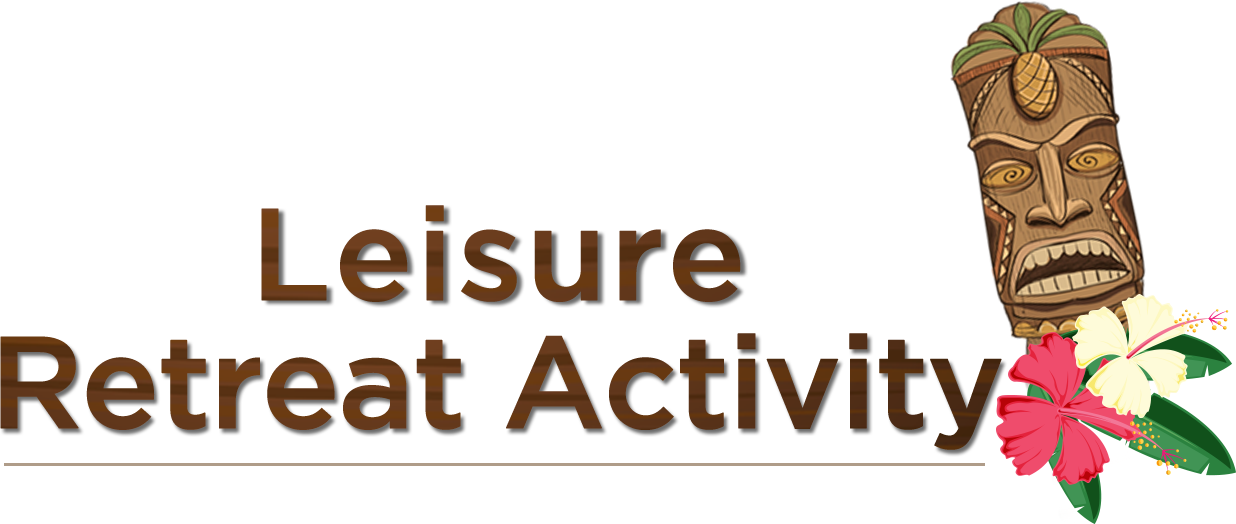
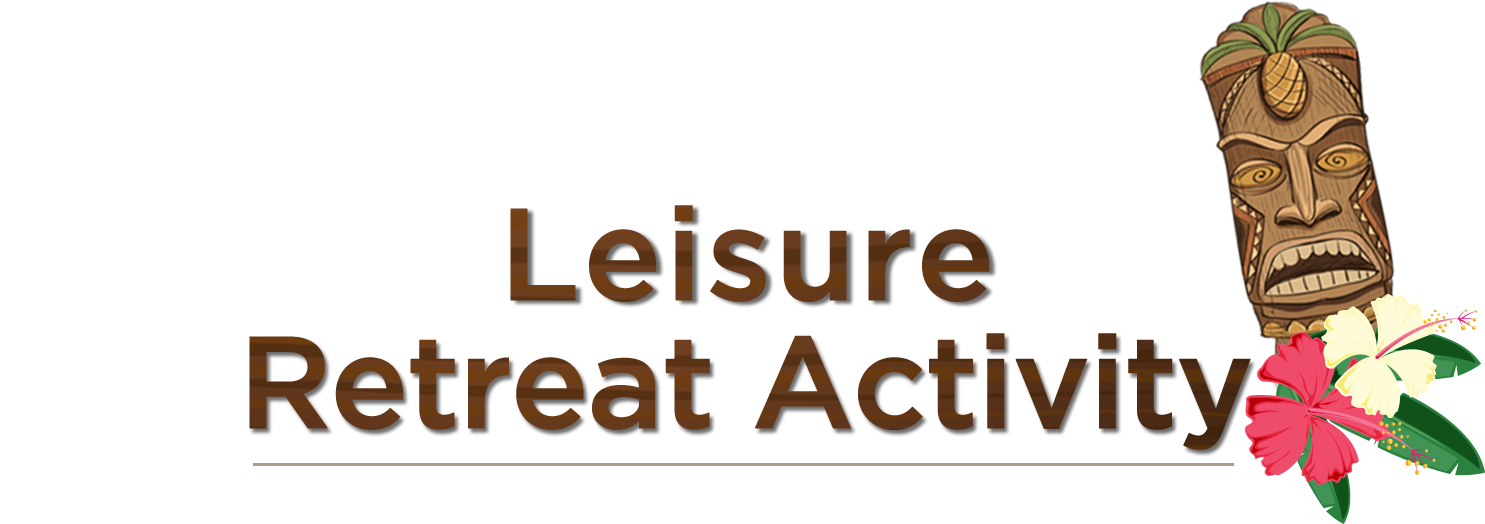
edit activity

Changed region(s): [[0.0, 0.0, 1.0, 1.0], [0.1845, 0.3664, 0.6764, 0.6107], [0.0, 0.8855, 0.1537, 0.916]]

diff --git a/activities.html b/activities.html
@@ -41,7 +41,7 @@
     <link href="./css/css.css" rel="stylesheet" />
   </head>
 
-  <body>
+  <body class="main-body-option2">
     <nav class="navbar fixed-top navbar-expand-lg navbar-dark scrolling-navbar">
       <div class="container">
         <a class="navbar-brand" href="home.html">
@@ -143,15 +143,15 @@
         <!--Section: Cards-->
         <section class="pt-4">
           <!-- Heading & Description -->
-          <div class="wow fadeIn">
+          <div class="text-center wow fadeIn">
             <!--Section heading-->
-            <h2 class="h1 text-center mb-5">LEISURE & RETREAT ACTIVITY</h2>
+            <img src="./images/title_lra.png" class="img-fluid title-lra-img">
             <!--Section description-->
             <p class="text-center">
-              ATTENDEE CAN ONLY SELECT ONE PROGRAMD ACTIVITY
+              Attendees can only select <span class="red-text">ONE</span> activity program
             </p>
             <p class="text-center mb-5 pb-5">
-              AND NEED TO CONFIRM IN PRE-EVENT WEBSITE FOR RESERVATION
+              Please confirm in the event website for reservation
             </p>
           </div>
           <!-- Heading & Description -->
@@ -161,7 +161,7 @@
             <!--Grid column-->
             <div class="col-lg-5 col-xl-4 mb-4">
               <!--Featured image-->
-              <div class="view overlay rounded z-depth-1">
+              <div class="view overlay rounded z-depth-0">
                 <img src="./images/step4_card1.png" class="img-fluid" alt="" />
                 <a href="activities_detail.html">
                   <div class="mask rgba-white-slight"></div>
@@ -176,8 +176,7 @@
                 <strong>ZIPLINE ACTIVITY</strong>
               </h3>
               <p class="grey-text">
-                ACTIVITIES ARE NOT RECOMMENDED FOR ANYONE WHOMAY HAVE A HEART
-                CONDITION,NECK BACK ISSUES, PR....
+                Face your fear of heights by going on a zipline from tree to tree and also walking across a sky bridge
               </p>
               <div class="progress">
                 <div
@@ -192,7 +191,7 @@
               <p class="text-progress">XX AVAILABLE</p>
               <a
                 href="activities_detail.html"
-                class="btn btn-primary btn-md float-right"
+                class="btn btn-wood btn-md float-right"
                 >See more detail <i class="fas fa-play ml-2"></i>
               </a>
             </div>
@@ -207,7 +206,7 @@
             <!--Grid column-->
             <div class="col-lg-5 col-xl-4 mb-4">
               <!--Featured image-->
-              <div class="view overlay rounded z-depth-1">
+              <div class="view overlay rounded z-depth-0">
                 <img src="./images/step4_card2.png" class="img-fluid" alt="" />
                 <a href="activities_detail.html">
                   <div class="mask rgba-white-slight"></div>
@@ -222,8 +221,7 @@
                 <strong>PHI PHI ISLAND AND SNORKELING </strong>
               </h3>
               <p class="grey-text">
-                ACTIVITIES ARE NOT RECOMMENDED FOR ANYONE WHOMAY HAVE A HEART
-                CONDITION,NECK BACK ISSUES, PR....
+                Go snorkeling with fishes in the beautiful ocean and have a relaxing time by beach
               </p>
               <div class="progress">
                 <div
@@ -240,7 +238,7 @@
               </p>
               <a
                 href="activities_detail.html"
-                class="btn btn-primary btn-md float-right"
+                class="btn btn-wood btn-md float-right"
                 >See more detail <i class="fas fa-play ml-2"></i>
               </a>
             </div>
@@ -255,7 +253,7 @@
             <!--Grid column-->
             <div class="col-lg-5 col-xl-4 mb-4">
               <!--Featured image-->
-              <div class="view overlay rounded z-depth-1">
+              <div class="view overlay rounded z-depth-0">
                 <img src="./images/step4_card3.png" class="img-fluid" alt="" />
                 <a href="activities_detail.html">
                   <div class="mask rgba-white-slight"></div>
@@ -270,8 +268,7 @@
                 <strong>THAI MASSAGE AND SPA</strong>
               </h3>
               <p class="grey-text">
-                ACTIVITIES ARE NOT RECOMMENDED FOR ANYONE WHOMAY HAVE A HEART
-                CONDITION,NECK BACK ISSUES, PR....
+                Have a nice relaxing 2-hour long Thai massage to calm your body and a nice walk around Phuket Old town after that
               </p>
               <div class="progress">
                 <div
@@ -286,7 +283,7 @@
               <p class="text-progress">XX AVAILABLE</p>
               <a
                 href="activities_detail.html"
-                class="btn btn-primary btn-md float-right"
+                class="btn btn-wood btn-md float-right"
                 >See more detail <i class="fas fa-play ml-2"></i>
               </a>
             </div>
@@ -300,7 +297,7 @@
             <!--Grid column-->
             <div class="col-lg-5 col-xl-4 mb-4">
               <!--Featured image-->
-              <div class="view overlay rounded z-depth-1">
+              <div class="view overlay rounded z-depth-0">
                 <img src="./images/step4_card4.png" class="img-fluid" alt="" />
                 <a href="activities_detail.html">
                   <div class="mask rgba-white-slight"></div>
@@ -315,8 +312,7 @@
                 <strong>SIDESEEING & SHOPPING CITY TOUR </strong>
               </h3>
               <p class="grey-text">
-                ACTIVITIES ARE NOT RECOMMENDED FOR ANYONE WHOMAY HAVE A HEART
-                CONDITION,NECK BACK ISSUES, PR....
+                Explore Phuket Old Town and the beauty temples around it
               </p>
               <div class="progress">
                 <div
@@ -331,7 +327,7 @@
               <p class="text-progress">XX AVAILABLE</p>
               <a
                 href="activities_detail.html"
-                class="btn btn-primary btn-md float-right"
+                class="btn btn-wood btn-md float-right"
                 >See more detail <i class="fas fa-play ml-2"></i>
               </a>
             </div>
@@ -346,7 +342,7 @@
             <!--Grid column-->
             <div class="col-lg-5 col-xl-4 mb-4">
               <!--Featured image-->
-              <div class="view overlay rounded z-depth-1">
+              <div class="view overlay rounded z-depth-0">
                 <img src="./images/step4_card5.png" class="img-fluid" alt="" />
                 <a href="activities_detail.html">
                   <div class="mask rgba-white-slight"></div>
@@ -361,8 +357,7 @@
                 <strong>WAKE BOARD </strong>
               </h3>
               <p class="grey-text">
-                ACTIVITIES ARE NOT RECOMMENDED FOR ANYONE WHOMAY HAVE A HEART
-                CONDITION,NECK BACK ISSUES, PR....
+                Feel the force of the water and the wind in your hair as you surf on a wakeboard
               </p>
               <div class="progress">
                 <div
@@ -377,7 +372,7 @@
               <p class="text-progress">XX AVAILABLE</p>
               <a
                 href="activities_detail.html"
-                class="btn btn-primary btn-md float-right"
+                class="btn btn-wood btn-md float-right"
                 >See more detail <i class="fas fa-play ml-2"></i>
               </a>
             </div>
@@ -392,7 +387,7 @@
             <!--Grid column-->
             <div class="col-lg-5 col-xl-4 mb-4">
               <!--Featured image-->
-              <div class="view overlay rounded z-depth-1">
+              <div class="view overlay rounded z-depth-0">
                 <img src="./images/step4_card6.png" class="img-fluid" alt="" />
                 <a href="activities_detail.html">
                   <div class="mask rgba-white-slight"></div>
@@ -407,8 +402,7 @@
                 <strong>RAFTING ACTIVITY </strong>
               </h3>
               <p class="grey-text">
-                ACTIVITIES ARE NOT RECOMMENDED FOR ANYONE WHOMAY HAVE A HEART
-                CONDITION,NECK BACK ISSUES, PR....
+                Paddle your way down a gushing river with your friends and experience the adrenaline rush
               </p>
               <div class="progress">
                 <div
@@ -423,7 +417,7 @@
               <p class="text-progress">XX AVAILABLE</p>
               <a
                 href="activities_detail.html"
-                class="btn btn-primary btn-md float-right"
+                class="btn btn-wood btn-md float-right"
                 >See more detail <i class="fas fa-play ml-2"></i>
               </a>
             </div>
@@ -438,8 +432,8 @@
             <!--Grid column-->
             <div class="col-lg-5 col-xl-4 mb-4">
               <!--Featured image-->
-              <div class="view overlay rounded z-depth-1">
-                <img src="./images/step4_card8.png" class="img-fluid" alt="" />
+              <div class="view overlay rounded z-depth-0">
+                <img src="./images/step4_card7.png" class="img-fluid" alt="" />
                 <a href="activities_detail.html">
                   <div class="mask rgba-white-slight"></div>
                 </a>
@@ -453,8 +447,7 @@
                 <strong>HYPE CRUISE </strong>
               </h3>
               <p class="grey-text">
-                ACTIVITIES ARE NOT RECOMMENDED FOR ANYONE WHOMAY HAVE A HEART
-                CONDITION,NECK BACK ISSUES, PR....
+                Party and relax on the luxury yacht that sails along the shores of the beach
               </p>
               <div class="progress">
                 <div
@@ -469,7 +462,52 @@
               <p class="text-progress">XX AVAILABLE</p>
               <a
                 href="activities_detail.html"
-                class="btn btn-primary btn-md float-right"
+                class="btn btn-wood btn-md float-right"
+                >See more detail <i class="fas fa-play ml-2"></i>
+              </a>
+            </div>
+            <!--Grid column-->
+          </div>
+          <!--Grid row-->
+
+          <hr class="mb-5" />
+
+          <!--Grid row-->
+          <div class="row mt-3 wow fadeIn">
+            <!--Grid column-->
+            <div class="col-lg-5 col-xl-4 mb-4">
+              <!--Featured image-->
+              <div class="view overlay rounded z-depth-0">
+                <img src="./images/step4_card8.png" class="img-fluid" alt="" />
+                <a href="activities_detail.html">
+                  <div class="mask rgba-white-slight"></div>
+                </a>
+              </div>
+            </div>
+            <!--Grid column-->
+
+            <!--Grid column-->
+            <div class="col-lg-7 col-xl-7 ml-xl-4 mb-4">
+              <h3 class="mb-3 font-weight-bold dark-grey-text">
+                <strong>FLOW HOUSE & JET SKI</strong>
+              </h3>
+              <p class="grey-text">
+                Surf up in the Flow House and ride alongside the ocean waves on a jet ski
+              </p>
+              <div class="progress">
+                <div
+                  class="progress-bar"
+                  role="progressbar"
+                  style="width: 50%"
+                  aria-valuenow="50"
+                  aria-valuemin="0"
+                  aria-valuemax="100"
+                ></div>
+              </div>
+              <p class="text-progress">XX AVAILABLE</p>
+              <a
+                href="activities_detail.html"
+                class="btn btn-wood btn-md float-right"
                 >See more detail <i class="fas fa-play ml-2"></i>
               </a>
             </div>
@@ -528,7 +566,7 @@
     ></script>
     <script type="text/javascript">
       $(document).ready(function() {
-        Swal.fire("No Activity Select", "", "warning");
+        Swal.fire("No activity selected", "", "warning");
       });
     </script>
   </body>

diff --git a/activities_detail.html b/activities_detail.html
@@ -41,7 +41,7 @@
     <link href="./css/css.css" rel="stylesheet" />
   </head>
 
-  <body>
+  <body class="main-body-option2">
     <nav class="navbar fixed-top navbar-expand-lg navbar-dark scrolling-navbar">
       <div class="container">
         <a class="navbar-brand" href="home.html">
@@ -235,7 +235,14 @@
                 </div>
               </div>
               <!--/.Featured Image-->
-
+              <div class="row mb-4">
+                <div class="col-6 text-left">
+                  <a href="#!" class="btn btn-wood"><< Previous program</a>
+                </div>
+                <div class="col-6 text-right">
+                  <a href="#!" class="btn btn-wood">Next program >></a>
+                </div>
+              </div>
               <!--Card-->
               <div class="card mb-4 wow fadeIn">
                 <!--Card content-->
@@ -258,7 +265,7 @@
                   <hr />
 
                   <img src="./images/physical.png" class="img-fluid my-3" />
-                  <button class="btn btn-primary">SELECT ACTIVITY</button>
+                  <button class="btn btn-wood">Reserve Your Slot in This Activity</button>
                 </div>
               </div>
               <!--/.Card-->
@@ -267,20 +274,32 @@
               <div class="card mb-4 wow fadeIn">
                 <!--Card content-->
                 <div class="card-body">
-                  <p class="h5 my-4">RESTRICTIONS AND SAFETY REQUIREMENTS</p>
+                  <p class="h5 my-4">ACTIVITIES ARE NOT RECOMMENDED FOR</p>
 
                   <blockquote class="blockquote">
-                    <p class="mb-0">
-                      ACTIVITIES ARE NOT RECOMMENDED FOR ANYONE WHOMAY HAVE A
-                      HEART CONDITION,NECK BACK ISSUES, PREGNANCYOR OTHER
-                      MEDICAL CONCERNS WHICH WOULD LIMIT PARTICIPATION AND
-                      WEIGHT LESS THAN 120 KG
-                    </p>
+                    <ul>
+                      <li>WEIGHT LESS THAN 120 KG</li>
+                      <li>WHO HAVE A HEART CONDITION</li>
+                      <li>NECK OR BACK ISSUES</li>
+                      <li>PREGNANCY </li>
+                      <li>OTHER MEDICAL CONCERNS WHICH WOULD LIMIT PARTICIPATION</li>
+                    </ul>
                   </blockquote>
 
-                  <p class="h5 my-4">Preparation</p>
+                  <p class="h5 my-4">PREPARATION</p>
 
-                  <p>TROUSER SPORTS SHOES OR SNEEKERS</p>
+                  <blockquote class="blockquote">
+                    <ul>
+                      <li>TROUSER & Dark Color T-Shirt</li>
+                    </ul>
+                  </blockquote>
+
+                  <p class="h5 my-4">REQUIREMENT</p>
+                  <blockquote class="blockquote">
+                    <ul>
+                      <li>SPORTS SHOES OR SNEEKERS</li>
+                    </ul>
+                  </blockquote>
                 </div>
               </div>
               <!--/.Card-->
@@ -290,11 +309,13 @@
                 <!--Card content-->
                 <div class="card-body text-center">
                   <p class="h5 my-4">AGENDA</p>
-                  <div class="table-responsive text-nowrap">
+                  <div class="">
                     <table
-                      class="table table-hover table-bordered table-web table-striped"
+                      class="table table-hover table-bordered table-striped"
                     >
-                      <thead style="background-color: #639efc; color: #fff;">
+                        <thead
+                          style="background-image: url('./images/bg_head_table.png'); background-repeat: no-repeat; background-size: 100% 100%; color: #fff;"
+                        >
                         <tr>
                           <th class="text-center" scope="col">Time</th>
                           <th class="text-center" scope="col">Activity</th>

diff --git a/css/css.css b/css/css.css
@@ -263,6 +263,13 @@ body.main-body-option1{
   background-attachment: fixed, fixed, fixed;
   background-position: left bottom, right bottom, center center;
 }
+body.main-body-option2{
+  background-image: url('../images/bg_option5.png'), url('../images/bg_option6.png'), url('../images/bg_option3.png'), url('../images/bg_first.png');
+  background-repeat: no-repeat, no-repeat, no-repeat, no-repeat;
+  background-size: 15% auto, 15% auto, 18% auto, cover;
+  background-attachment: fixed, fixed, fixed, fixed;
+  background-position: top left, top right, right bottom, center center;
+}
 
 main.main {
   min-height: 100vh;
@@ -356,6 +363,11 @@ footer.page-footer a{
   .container-kv{
     max-width: 70%;
     margin: 0 auto;
+  }
+}
+@media (min-width: 769px){
+  .h-fluid{
+    max-height: 100%;
   }
 }
 @media (min-width: 800px) and (max-width: 850px) {
